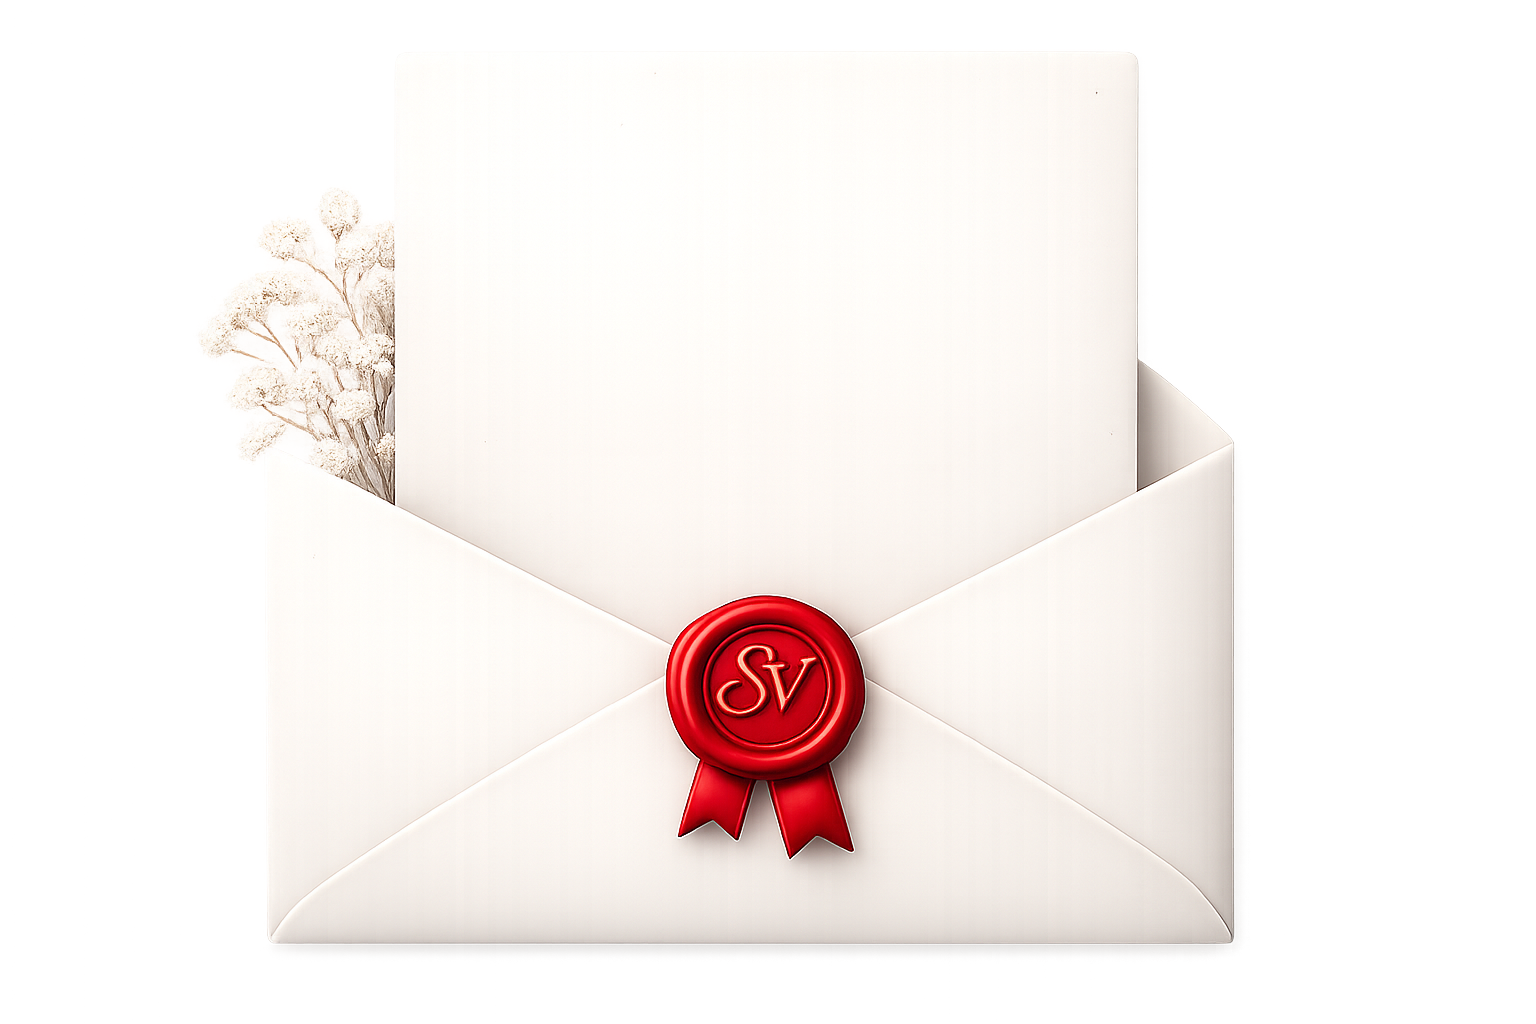
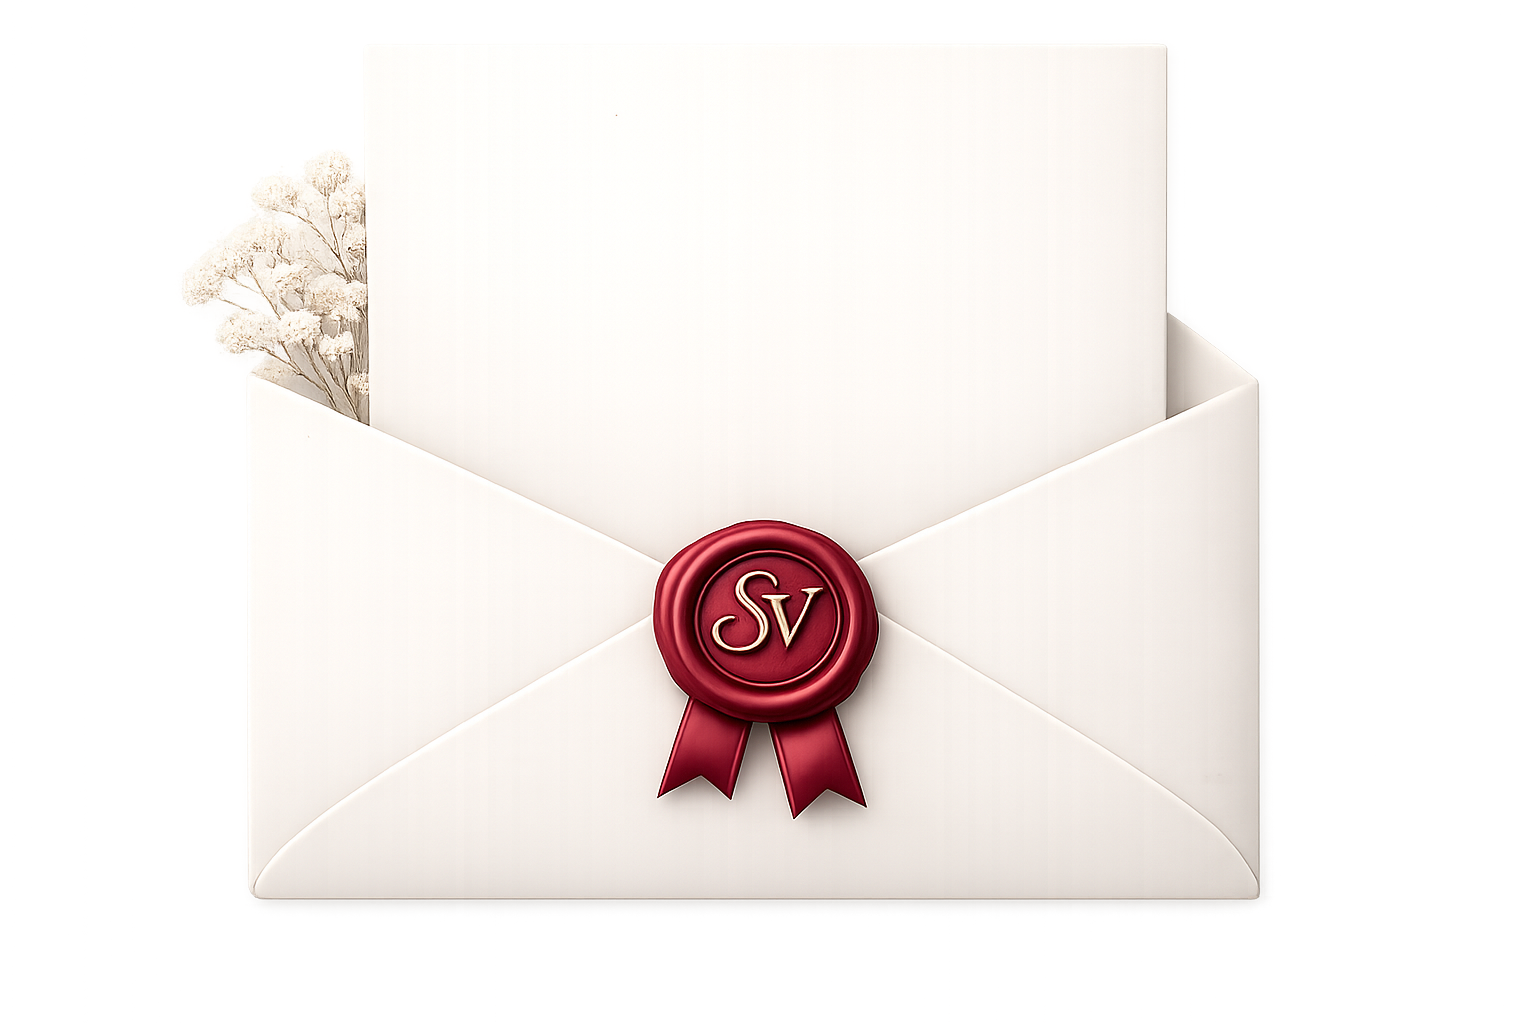
Add files via upload

diff --git a/index.html b/index.html
@@ -540,7 +540,7 @@ body.invite-opened .page{
 	/* На телефоне — ЗАГС и текст по центру, один под другим */
 @media (max-width:640px){
   .intro-envelope{
-    width:calc(100% + 56px);
+    width:calc(100% + 72px);
     max-width:none;
     margin:0 auto 14px;
     margin-left:50%;
